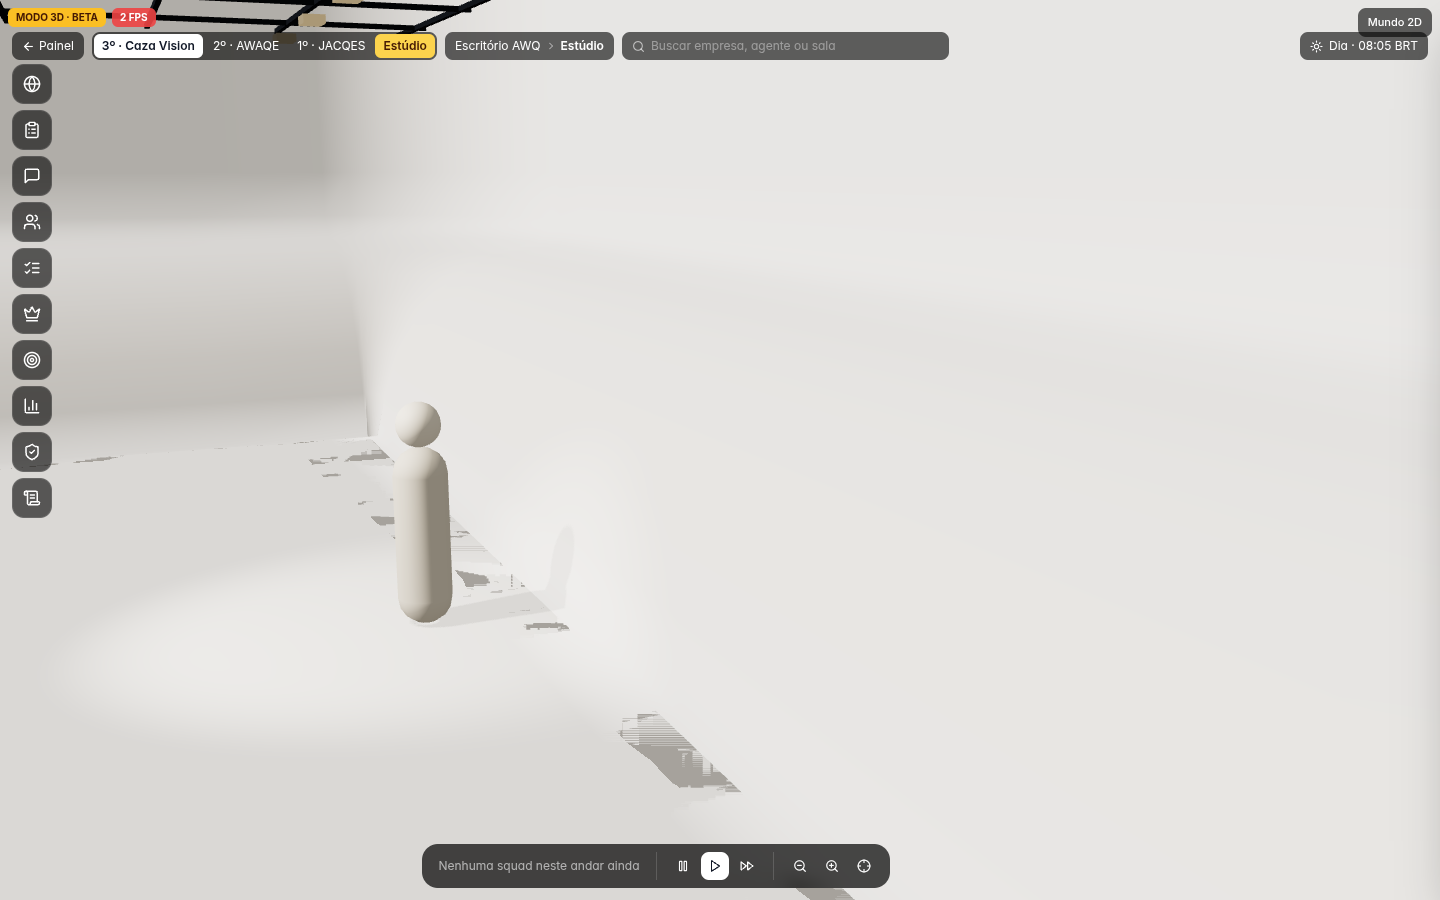
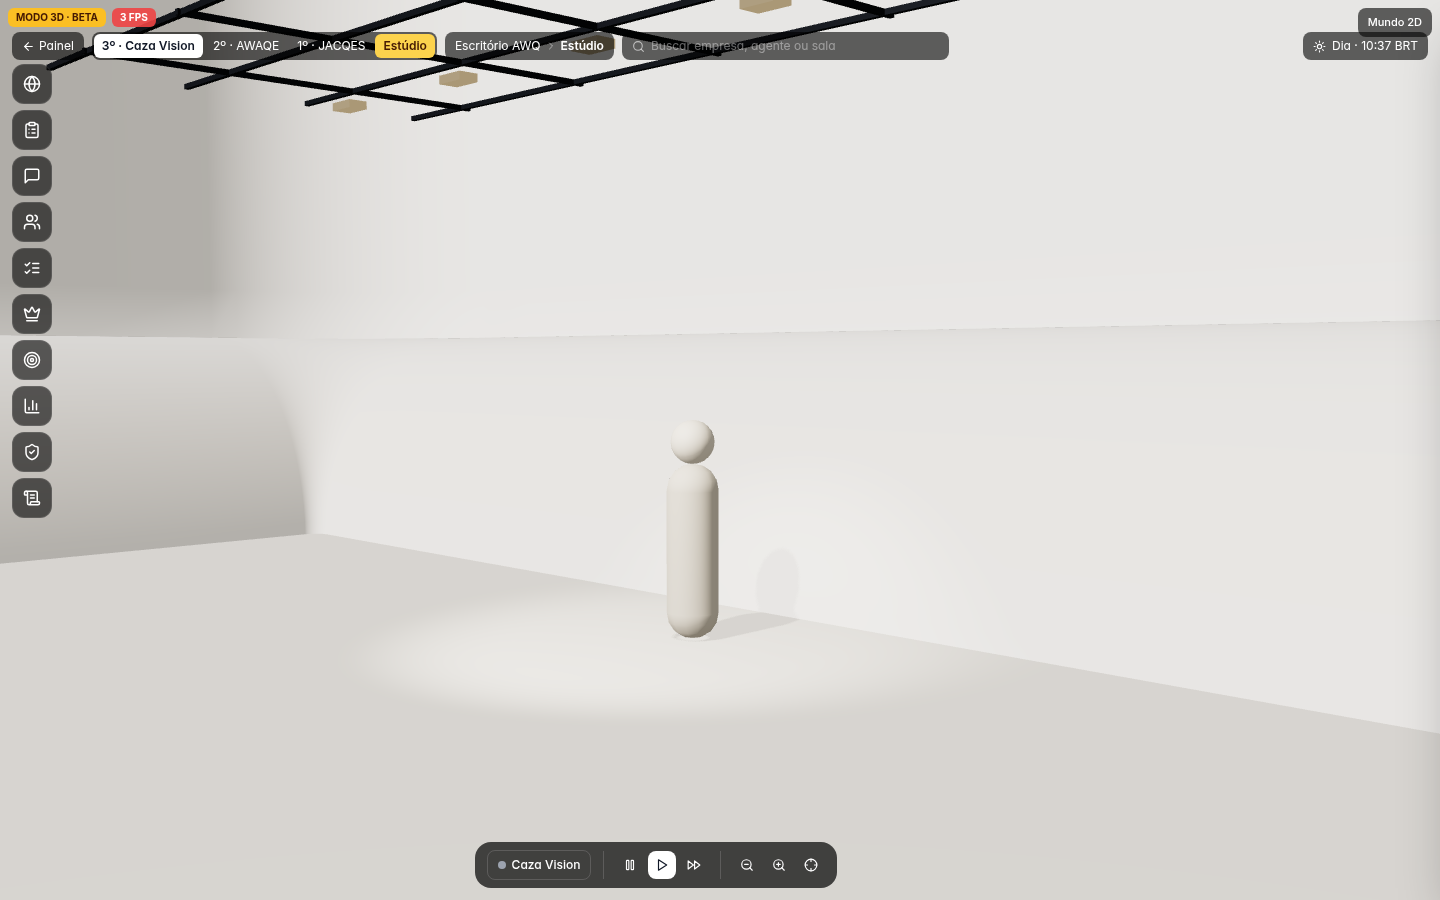
fix(office): piso único do ciclorama e o slot abre o set
O perfil do cove parava numa faixa de 16 m repetida em cada parede, e as faixas
brigavam no piso. O perfil agora acaba no raio e um só plano cobre o chão.
O clique no slot entra no estúdio, a textura da placa é descartada, e voltar
à Caza a partir da sala de reuniões não deixa o breadcrumb da sala.

diff --git a/components/office/studio/StudioSet.tsx b/components/office/studio/StudioSet.tsx
@@ -2,13 +2,13 @@
 
 import { Component, Suspense, useEffect, useMemo, type ReactNode } from "react";
 import { Canvas, useThree } from "@react-three/fiber";
-import { Grid, OrbitControls } from "@react-three/drei";
+import { OrbitControls } from "@react-three/drei";
 import * as THREE from "three";
 
 /**
  * Cenário do Estúdio da Caza Vision, no espírito do Cine Tracer:
- * ciclorama curvo (piso que sobe na parede e nas laterais, sem horizonte),
- * grade de luz no teto e piso em grade. Geometria procedural — nenhum asset pago.
+ * ciclorama curvo (a parede desce até a curva e encontra um único piso),
+ * grade de luz no teto. Geometria procedural — nenhum asset pago.
  */
 
 const ALTURA = 8;
@@ -62,21 +62,24 @@ function trajetoDaParede(): { x: number; z: number; nx: number; nz: number }[] {
   return pts;
 }
 
-/** Perfil do cove: do topo da parede, pela curva, até o piso. [altura, recuo para dentro]. */
+/**
+ * Perfil do cove: parede reta e quarto de círculo, parando no raio.
+ * Sem a faixa de 16 m: ela se repetia em cada parede e z-fightava no meio.
+ * [altura, recuo para dentro]. O último ponto fica 1 cm acima do piso.
+ */
 function perfilDoCove(): [number, number][] {
   const parede = ALTURA - RAIO;
-  const arco = (Math.PI * RAIO) / 2;
-  const chao = 16;
-  const total = parede + arco + chao;
-  const passos = 40;
+  const passosParede = 8;
+  const passosArco = 24;
   const perfil: [number, number][] = [];
-  for (let i = 0; i <= passos; i++) {
-    const s = (i / passos) * total;
-    if (s <= parede) perfil.push([ALTURA - s, 0]);
-    else if (s <= parede + arco) {
-      const ang = (s - parede) / RAIO;
-      perfil.push([RAIO * Math.cos(ang), RAIO * Math.sin(ang)]);
-    } else perfil.push([0, RAIO + (s - parede - arco)]);
+  for (let i = 0; i <= passosParede; i++) {
+    perfil.push([ALTURA - (i / passosParede) * parede, 0]);
+  }
+  for (let i = 1; i <= passosArco; i++) {
+    const ang = (i / passosArco) * (Math.PI / 2);
+    const y = RAIO * Math.cos(ang);
+    const recuo = Math.min(RAIO, RAIO * Math.sin(ang));
+    perfil.push([i === passosArco ? 0.01 : y, recuo]);
   }
   return perfil;
 }
@@ -193,21 +196,12 @@ export function StudioSet() {
   return (
     <group>
       <Ciclorama />
+      <mesh rotation-x={-Math.PI / 2} position={[0, 0, 4.9]} receiveShadow>
+        <planeGeometry args={[22.2, 18.4]} />
+        <meshStandardMaterial color={COR_CICLO} roughness={0.95} metalness={0} />
+      </mesh>
       <GradeDeLuz />
       <Manequim />
-      <Grid
-        args={[40, 40]}
-        position={[0, -0.04, 0]}
-        cellSize={0.5}
-        cellThickness={0.7}
-        cellColor="#8b93a3"
-        sectionSize={2}
-        sectionThickness={1.2}
-        sectionColor="#c5ccd8"
-        fadeDistance={28}
-        fadeStrength={1.4}
-        infiniteGrid
-      />
     </group>
   );
 }
@@ -256,7 +250,8 @@ export function EstudioViewport() {
               shadow-mapSize-width={2048}
               shadow-mapSize-height={2048}
               shadow-radius={8}
-              shadow-bias={-0.0004}
+              shadow-bias={-0.00015}
+              shadow-normalBias={0.04}
             />
             <StudioSet />
             <OrbitControls

diff --git a/components/office/OfficeGame3D.tsx b/components/office/OfficeGame3D.tsx
@@ -1070,7 +1070,7 @@ function FpsProbe({ onUpdate }: { onUpdate: (fps: number) => void }) {
   return null;
 }
 
-/** Placa do slot vazio do Estúdio no 3º andar. O set 3D chega nos PRs seguintes. */
+/** Placa do slot do Estúdio no 3º andar. O clique abre o set. */
 function texturaPlacaEstudio(): THREE.CanvasTexture {
   const c = document.createElement("canvas");
   c.width = 640;
@@ -1084,7 +1084,7 @@ function texturaPlacaEstudio(): THREE.CanvasTexture {
   g.font = "bold 64px sans-serif";
   g.textAlign = "center";
   g.textBaseline = "middle";
-  g.fillText("Estúdio · em breve", 340, 110);
+  g.fillText("Estúdio", 340, 110);
   const t = new THREE.CanvasTexture(c);
   t.needsUpdate = true;
   return t;
@@ -1096,6 +1096,7 @@ function SlotDoEstudio({ detalhado, onEntrar }: { detalhado: boolean; onEntrar: 
   const ox = slot.x * UNIT, oz = slot.y * UNIT;
   const w = lado * UNIT, d = lado * UNIT;
   const placa = useMemo(() => texturaPlacaEstudio(), []);
+  useEffect(() => () => placa.dispose(), [placa]);
   return (
     <group position={[ox, 0, oz]}>
       <mesh
@@ -1280,11 +1281,16 @@ export default function OfficeGame3D(props: Props) {
   };
   const sair = () => setVista("mundo");
   const focarCasa = (sala: CasaId) => {
-    if (sala === "estudio") setAndar("caza");
+    if (sala === "estudio") {
+      setAndar("caza");
+      setFocoCasa("estudio");
+      setVista("estudio");
+      onPainel(false);
+      return;
+    }
     setFocoCasa(sala);
     setVista("casa");
     if (sala === "reunioes") onPainel(true, "reuniao");
-    else if (sala === "estudio") onPainel(false);
   };
 
   const naReuniao = painelAberto && tab === "reuniao";
@@ -1400,7 +1406,8 @@ export default function OfficeGame3D(props: Props) {
           {[...ANDARES].reverse().map((a) => (
             <button key={a.id} onClick={() => {
               setAndar(a.id);
-              if (vista === "estudio") setVista("mundo");
+              if (vista === "estudio" || (a.id === "caza" && focoCasa === "reunioes")) setVista("mundo");
+              if (a.id !== "caza" && focoCasa === "estudio") { setFocoCasa("diretoria"); setVista("mundo"); }
             }} aria-pressed={andar === a.id}
               className={`rounded-md px-2 py-1 ${andar === a.id ? "bg-white text-gray-900 font-semibold" : "hover:bg-white/10"}`}>
               {a.numero}º · {a.nome}
